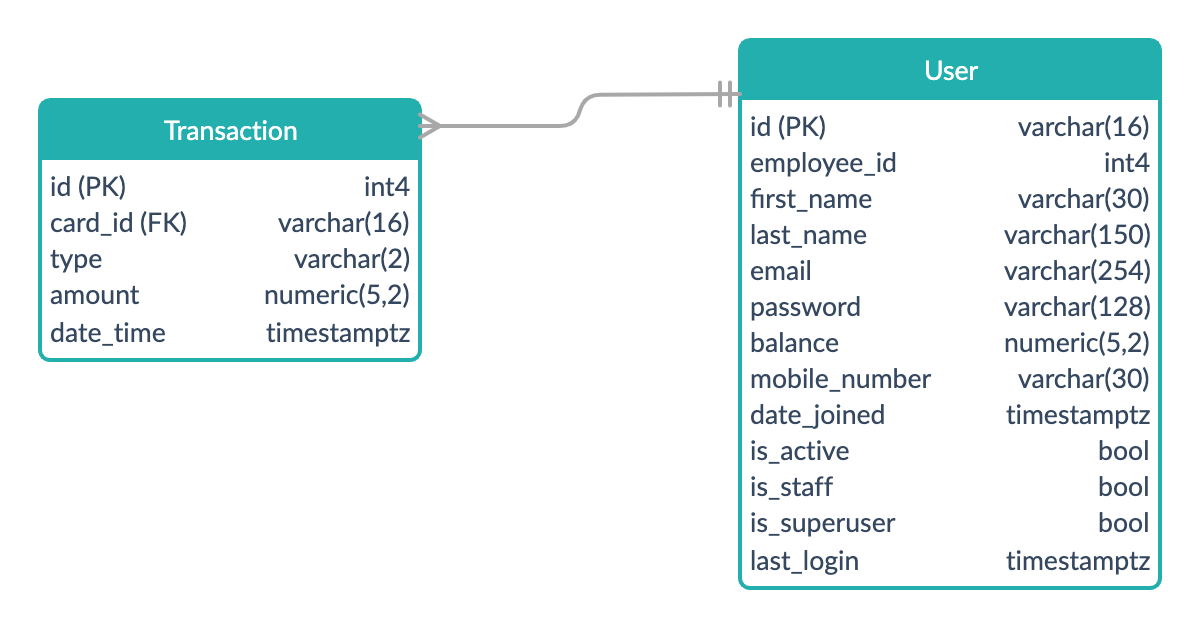
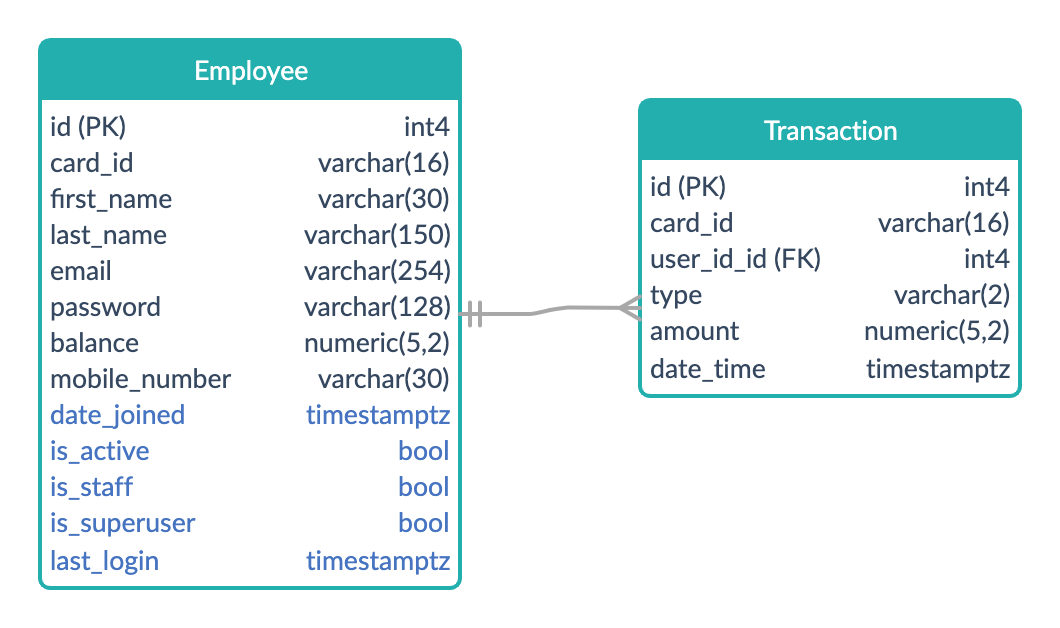
updated design docs, user guide, added testing docs

Changed region(s): [[0.0311, 0.0605, 0.9962, 0.9379]]

diff --git a/documentation/design.md b/documentation/design.md
@@ -1,6 +1,6 @@
 # Designing the Project
 ## Assumptions
-* Functionality for viewing and purchasing goods will be implemented separately
+* Functionality for viewing and purchasing goods may be implemented on the API at a later date
 * Employee IDs are numerical and 4-byte integer is sufficient to represent them
 * Users only have one card (at a time)
 * Users may need to update their card id, for example to replace a lost card
@@ -8,27 +8,41 @@
 * Users do not have a separate username to their employee id so this will be used as a username
 * The pin number will be used to login
 * When a User record is deleted, all associated Transaction records will also need be deleted
-* As the User table will not story a history of previous cards, the Transaction table will need to store the card number used which will not be updated when a user updated their card number
+* As the User table will not story a history of previous cards, the Transaction table will need to store the card number
+used which will not be updated when a user updated their card number
+## Changes and Additions made to the requirements
+* Employee IDs will be a six digits
+* Users will receive confirmation of the amount and new balance after a top up
+* Admins will be able to manage the users and transactions from the admin console
 ## Designs
 ### Use Cases
 ![Use Cases](use_cases.png)
-Before a user can perform any tasks, they must first register their card. Registered users can top up their cards, login and logout. The system will be used to view and purchase goods, however that is outside the scope of this project.
+A user who has not yet logged in can retrieve basic user details when providing their Card ID. They can also login or
+register. Logged-in users can view more details such as their balance and the date they last logged in. They can also
+top up their cards and logout.
 ### Data Model
 ![Data Model](data_model.png)
 #### User Table
-The User table allows an employee to register their card on the system and to top up their balance.
+The Employee table allows the user to register their card on the system and to top up their balance.
 
-I've made a design decision to extend Django's AbstractUser model which includes some fields by default such as date_joined and is_active to allow for user management on the admin console.
+I've made a design decision to extend Django's AbstractUser model which includes some fields by default (highlighted in
+light blue) to allow for user management on the admin console.
 
-I will use AbstractUser's password field to store the pin number. I will later implement a password validator which checks that the pin is a four-digit number when a new user is registering.
+I will use AbstractUser's password field to store the pin number. I will implement a password validator which checks
+that the pin is a four-digit number when a new user is registering.
 
-I will store the balance as the numeric type with a precision of 5 and a scale of 2. This allows for numbers up to the value of 999.99 which should be sufficient for this project.
+I will store the balance as the numeric type with a precision of 5 and a scale of 2. This allows for numbers up to the
+value of 999.99 which should be sufficient for this project.
 #### Transaction Table
-The Transaction table allows the user to top up their balance, and could potentially be used for the purchase of goods which is outside the scope of this project.
+The Transaction table stores details of top ups, and could potentially be used to store the details of purchases of
+goods.
 
-There is a one-to-many relationship to this table, allowing a single user can be associated with multiple transactions. The foreign key will be the id field from the User table.
+There is a one-to-many relationship to this table, allowing a single user to be associated with multiple transactions.
+The foreign key will be the id field from the User table.
 
-The transaction type will be stored as two characters. Top ups will be stored as 'TU' and purchases will be stored as 'PU'.
+The transaction type will be stored as two characters. Top ups will be stored as 'TU' and purchases will be stored as
+'PU'.
 ### Sequence Diagram
 ![Sequence Diagram](sequence_diagram.png)
-This diagram shows how the registered user interacts with the kiosk to perform the tasks of logging in and out. A limitation of this design is that it doesn't show registering a new user.
+This diagram shows how the registered user interacts with the kiosk to perform the tasks of logging in and out. A
+limitation of this design is that it doesn't show registering a new user.

diff --git a/documentation/user_guide.md b/documentation/user_guide.md
@@ -1,7 +1,22 @@
 # User Guide
 ## Installing the Application
+#### Setup the Database
+1. Install Homebrew (if not installed already): `/usr/bin/ruby -e "$(curl -fsSL
+https://raw.githubusercontent.com/Homebrew/install/master/install)"`
+1. Run `brew update`
+1. Globally install postgres: `brew install postgres`
+1. Start the postgres server: `pg_ctl -D /usr/local/var/postgres start`
+1. Connect to the auto-generated database: `psql postgres`
+1. Create a user for django to access the database: `CREATE USER bows_owner WITH PASSWORD 'postgres';`
+1. Create the database: `CREATE DATABASE bows_db WITH OWNER bows_owner;`
+#### Download the Application
+1. Run `git clone <enter repo here>`
+#### Setup Pipenv and Run the Application
+1. Install pipenv: `brew install pipenv`
+1. install the last successful environment recorded: `pipenv install --ignore-pipfile`
+1. If deploying locally, run the development server: `python manage.py runserver`
 ## APIs
-This table will be updated throughout the development of the project to show the catalogue of APIs available to call.
+The below shows a catalogue of API endpoints available to call.
 
 HTTP Method | Action | Requires Token | Path
 --- | --- | --- | ---
@@ -16,4 +31,7 @@ Where the following consists of:
 * \<card-id>: 16 alphanumeric characters e.g. r7jTG7dqBy5wGO4L
 * \<id>: six digits  e.g. 532752
 
-An example of using an authentication token in a curl command: `-H "Authorization: Token f7d5450f2a81be4dd01a2388120b9e48289f740a"`
+An example of using an authentication token in a curl command:
+`-H "Authorization: Token f7d5450f2a81be4dd01a2388120b9e48289f740a"`
+
+See the [Manual Testing](manual_testing.md) page for more in-depth instructions on how to call the endpoints

diff --git a/README.md b/README.md
@@ -4,4 +4,5 @@ Design and Build a RESTful API membership card system
 #### Navigation
 * [Designing the Project](documentation/design.md)
 * [User Guide](documentation/user_guide.md)
+* [Manual Testing](documentation/manual_testing.md)
 * [Limitations and Future Improvements](documentation/limitations.md)

diff --git a/documentation/manual_testing.md b/documentation/manual_testing.md
@@ -1,1 +1,8 @@
 # Manual Testing
+#### Navigation
+1. [Get ID](test_1_get_id.md)
+1. [Login](test_2_login.md)
+1. [Get Balance](test_3_get_balance.md)
+1. [Register](test_4_register.md)
+1. [Top Up](test_5_top_up.md)
+1. [Logout](test_6_logout.md)

diff --git a/documentation/test_2_login.md b/documentation/test_2_login.md
@@ -1,0 +1,3 @@
+## Test 2: Login
+
+User can login with their username and password, and receive an Authorisation Token

diff --git a/documentation/test_1_get_id.md b/documentation/test_1_get_id.md
@@ -1,0 +1,3 @@
+##Test 1: Get ID
+
+User can retrieve basic details when providing a card number

diff --git a/documentation/test_3_get_balance.md b/documentation/test_3_get_balance.md
@@ -1,0 +1,3 @@
+##Test 3: Get Balance
+
+User can retrieve further details such as balance

diff --git a/documentation/test_6_logout.md b/documentation/test_6_logout.md
@@ -1,0 +1,3 @@
+## Test 6: Logout
+
+User can Logout, deleting their token

diff --git a/documentation/test_4_register.md b/documentation/test_4_register.md
@@ -1,0 +1,3 @@
+## Test 4: Register
+
+User can register a new account

diff --git a/documentation/test_5_top_up.md b/documentation/test_5_top_up.md
@@ -1,0 +1,3 @@
+## Test 5: Top Up
+
+User can Top Up their balance
